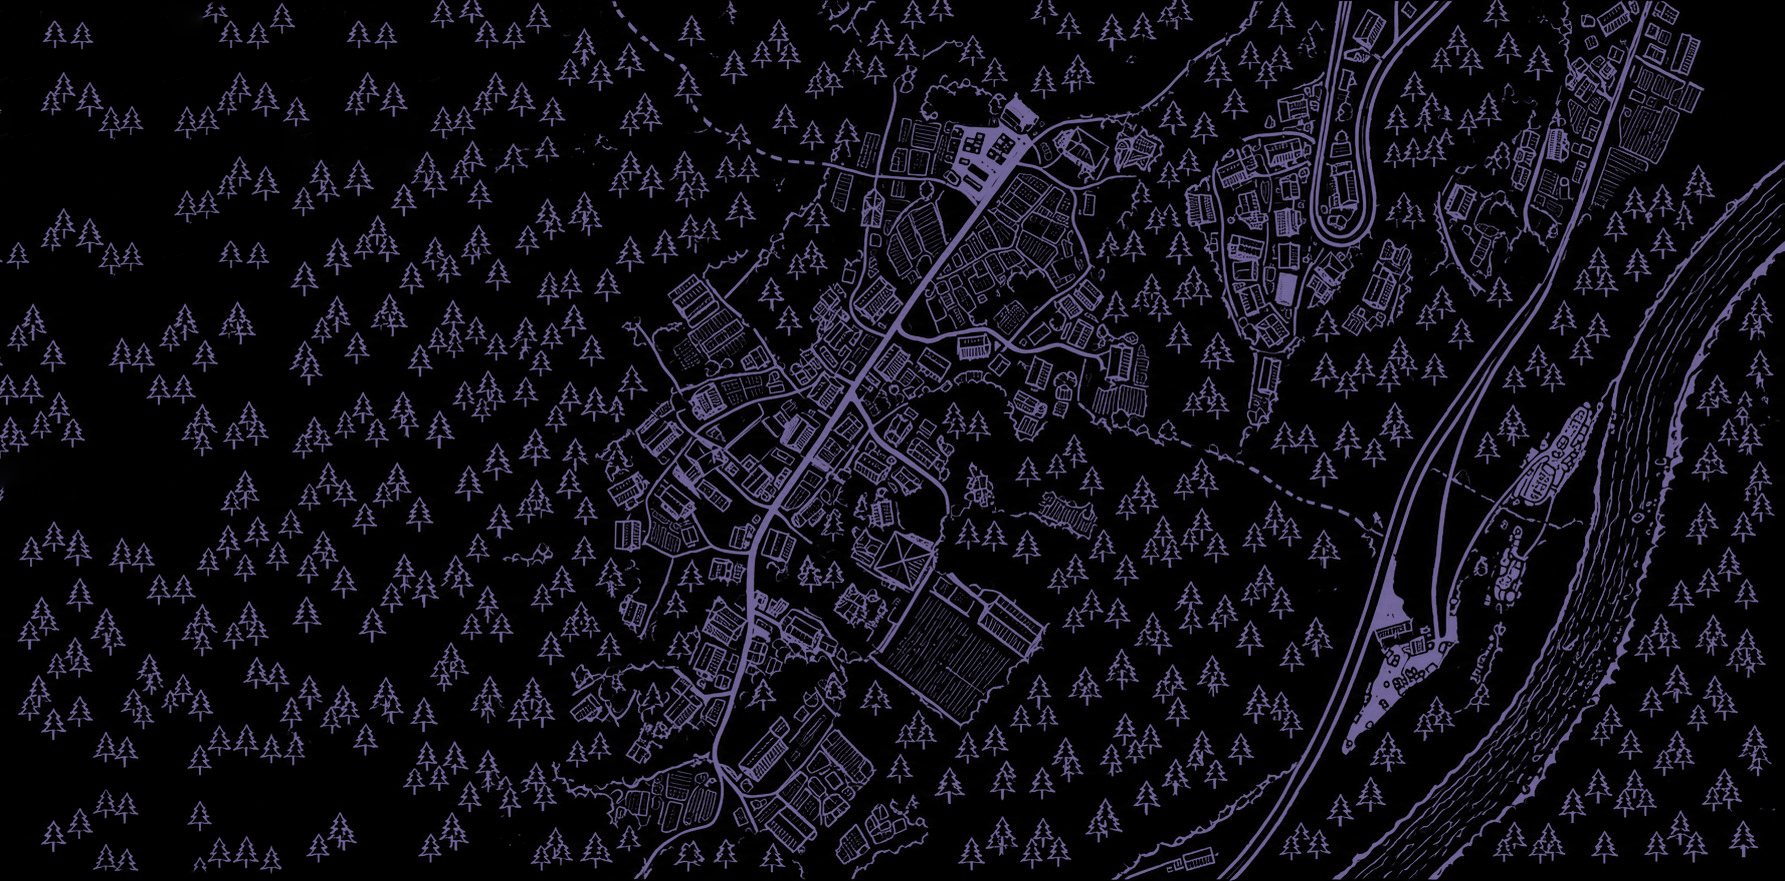
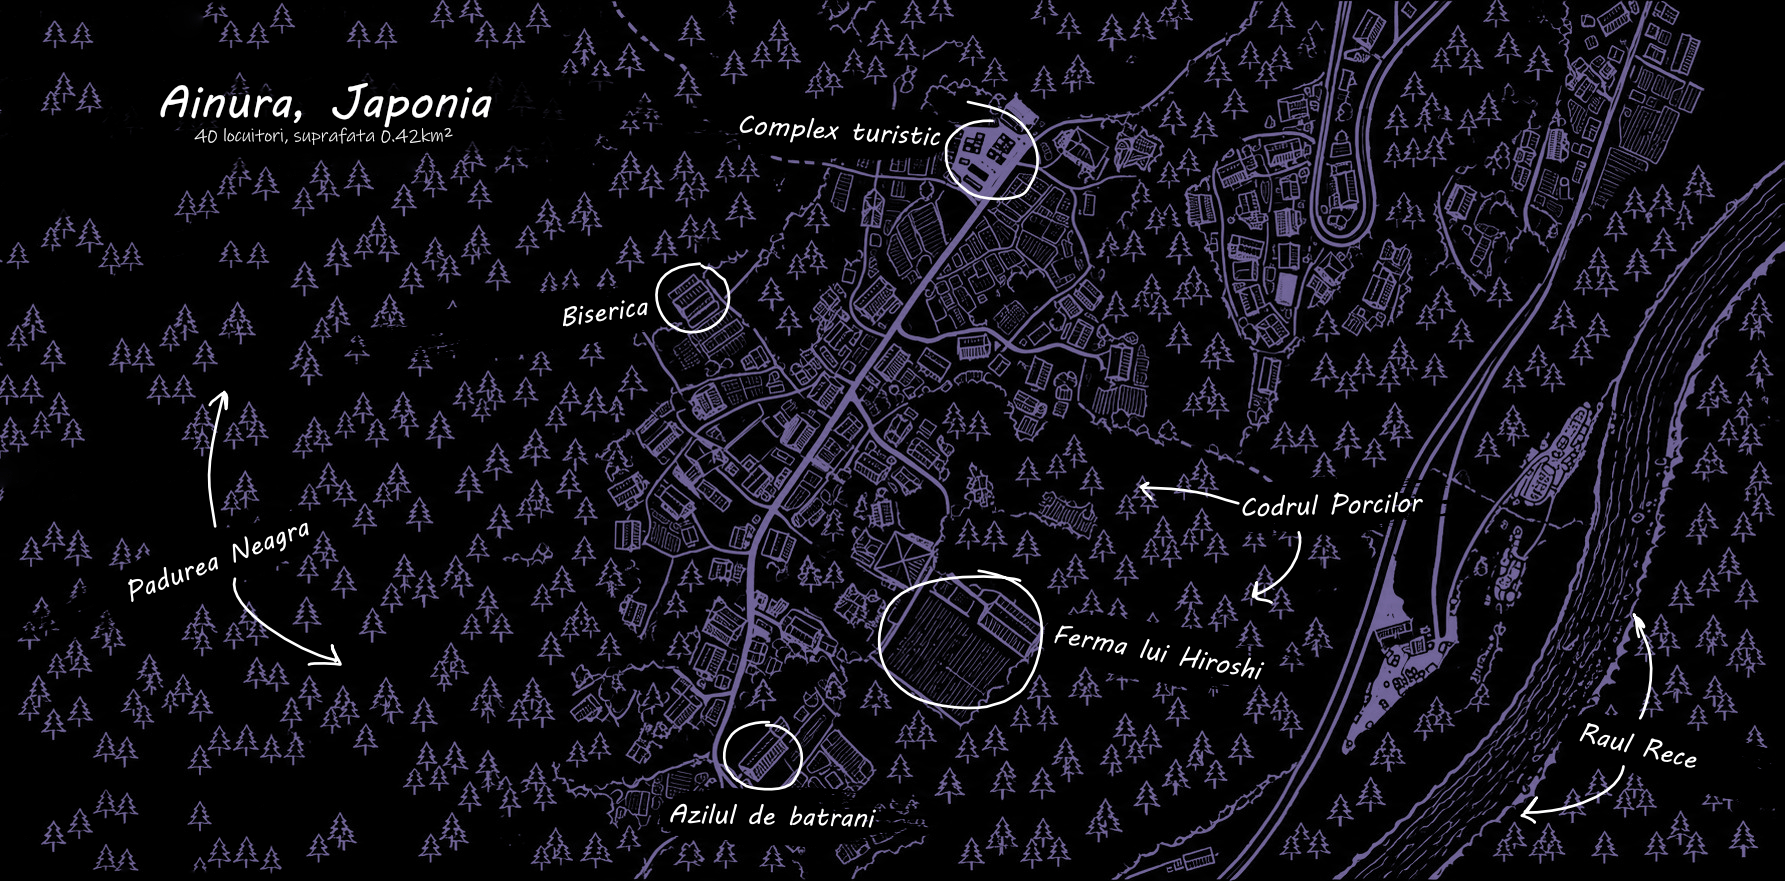
Added chapter 2

diff --git a/content/stories/vlad/o-poveste-banala/02-hiroshi.md b/content/stories/vlad/o-poveste-banala/02-hiroshi.md
@@ -1,0 +1,102 @@
+---
+title: Hiroshi
+---
+~~~map {map="map0"}
+980,487
+226,340
+~~~
+Nu m-am inscris pentru ca ma interesa joaca puerila a unor adulti de-a autorii de romane, ci fiindca persoana care coordona activitatea, era totodata si persoana cu care trebuia sa discut pentru a intocmi un plan de corectare a tuturor neregulilor identificate la sistemul lor de catalogarea a cartilor.
+
+Dupa prima sedinta insa, am descoperit ceva interesant. Nu, nu mi-am schimbat parerea legata de cum alegeau sa isi iroseasca timpul pretios unii care erau adulti doar in buletin, ci am devenit fascinat de cum am ajuns sa imi irosesc EU timpul. 
+
+Prima provocare a fost o scriere de aproximativ 5000 de caractere despre o poveste de dragoste imposibila, intre un soldat dintr-o tabara si o specialista in telecomunicatii din tabara inamica.
+
+Desigur, am dat ochii peste cap cand am auzit, si pe drum, in autobuz, mi s-a parut ridicol sa imi intrerup admirarea trecatorilor aleatorii de pe strada, cu subiecte puerile cum ar fi *soldatelul-iubeste-telefonista*. 
+
+Am ajuns acasa, i-am dat medicamentele lui mama si, ca de obicei, m-am asezat la calculator sa continui traducerea din engleza in poloneza a unui manual pentru un termometru USB (o activitate paralela cu jobul - un venit extra).
+
+Alimentat de o curiozitate incomoda, am scos din sertar un caiet si un pix si am inceput sa scriu. De nicaieri a aparut numele lui Otto, infanterist care abia a trecut majoratul, si numele lui Olga, o tehniciana sovietica, alocata decriptarii mesajelor transmise pe frontul pe care activa Otto. 
+
+Pixul se misca singur, si il urmaream cum desena, prin caractere si punctuatie, fronturi, transee, ofensive, defensive, mesaje adevarate si mesaje momeala menite sa induca in eroare.
+
+La un moment dat, rapus de oboseala, am atipit, cu capul pe caiet. Nu mai stiu la ce ora am adormit, insa ceasul meu desteptator m-a trezit, ca de obicei la cinci. 
+
+L-am oprit si am inceput rutina de dimineata, insa de data asta ceva era diferit. Caietul continea o poveste cap coada a celor doi protagonisti, o poveste pe care nu mi-o aduc aminte sa o fi scris. Am citit-o si...
+
+-- Cam slaba!
+
+Gandurile mele, oglindite, prin complimente false si de coordonatorul clubului.
+
+Nu ma asteptam sa fie altfel, deoarece faptele nu puteau sprijini o derulare diferita. De ce am mai prezentat povestea, fiind convins de ce reactie si feedback o sa primesc? 
+
+Pentru ca nu imi pasa de aceste lucruri, insa am ramas cu gandul la starea de transa in care am intrat in seara anterioara si de povestea care, cumva, s-a scris singura, in timp ce dormeam.
+
+Alaturi de colegii de club, eram si eu un cititor al propriilor creatii!
+
+Zilele au trecut, cu diverse povesti scrise mai bine (rar) sau *mai putin bine* (des), cu subiecte si/sau tehnici diferite, toate avand in comun faptul ca am fost spectator la primele cateva duzini de cuvinte, dupa care l-am lasat pe Mos Ene sa continuie restul povestii, urmand sa citesc rezultatul dimineata.
+
+Astfel ajungem la Hiroshi, protagonistul ultimei povesti din cadrul clubului.
+
+Se intampla prin Octombrie, la o luna dupa ce am incheiat colaborarea cu Biblioteca Municipala. Cerinta clubului a fost destul de ambigua: 
+
+*Necesitatea este mama invataturii!*
+{.callout .blue}
+
+Pe drum, in autobuz, am intors cerinta pe toate partile si mi-a venit ideea sa descriu situatia unui fermier, eventual mostenitor al fermei familiei, care trebuie sa supravietuiasca intr-un mediu care este incompatibil cu agricultura.
+
+Totodata, cu cateva seri in urma am urmarit cu mama un documentar despre viata corporatista in Tokyo. Mi s-a parut inedita cultura japoneza si m-am gandit ca as putea integra asta in povestea mea.
+
+Mai aveam cateva statii pana cand trebuia sa cobor. Nu am avut rabdare sa ajung acasa asa ca am scos un carnetel ca sa imi notez cateva idei de baza:
+
+*Fermier + mediu ostil agriculturii + Japonia*
+{.callout .blue}
+
+Aveam nevoie de niste nume care sa sune japonez asa ca m-am uitat in jurul meu. Stateam langa un adolescent lipit de telefon, pe care juca (pfeh!) un joc cu lupte cu sabia sau ceva. 
+
+Pe ecran scria "Choose your hero!" si baiatul era ocupat sa schimbe aspectul personajului, dupa ce a completat numele: "Shi".
+
+*Fermier: baiat tanar, adolescent, undeva in jur de 19 ani, 1.60 inaltime, nume: Heroshi... Hiroshi!.*
+{.callout .blue}
+
+Locatia a fost simplu de ales - fix atunci autobuzul trecea pe langa un restaurant asiatic numit Kalinura.
+
+*Locatie: sat mic, idilic, nume: Kainura... Ainura!.*
+{.callout .blue}
+
+Odata ajuns acasa, m-am asezat in fata biroului, pregatit sa incep sa scriu! Am intors o foaie proaspata a caietului, am pregatit pixul si... nu s-a intamplat nimic. 
+
+Am stat cateva minute uitandu-ma in gol la foaia alba, asteptand parca sa inceapa sa imi scrie singura mesaje, ca intr-un film pt copiii cu vrajitori. 
+
+M-am gandit ca poate e una din serile in care nu am "inspiratie" (s-a mai intamplat), asa ca am vrut sa bag pixul in sertar cand am avut o atractie sa pun pixul pe foaie. In sfarsit se intampla! Incepeam sa scriu, insa pixul nu lasa litere in urma, ci doar niste mazgaleli.
+
+In scurt timp am realizat ca mazgalelile erau de fapt drumuri, rauri, copaci, dealuri, case si recolte. Incepusem sa creez o harta! 
+
+Pana sa realizez ce se intampla, am simtit oboseala caracteristica procesului meu creativ, si incet, dar sigur, o patura groasa de catifea neagra mi-a invaluit ochii pe care nu am putut sa ii tin deschisi.
+
+---
+
+Dimineata am gasit urmatorul text:
+
+> La vest de Raul Rece, se desfasoara suprafata modesta a satului japonez Ainura, cu o istorie bogata de mii de ani, rivalizata doar de frumusetea fara seaman a caselor faimoase, vizitate zilnic de turisti. 
+
+> La baza Codrului Porcilor, vestit pentru populatia de mistreti, dificil de tinut sub control, gasim ferma lui Hiroshi, un baiat tanar cu corpul sculptat de munca chinuitoare a campului dar si de conditiile meteo vitrege ale satului. 
+
+> Baiatul a preluat ferma, asa cum au facut-o zeci de generatii inaintea lui, si in fiecare zi se ocupa atat de ferma cat si de diversele activitati din micul catun, de la ingrijit batranii pana la oferit ghiduri turistilor.
+
+> La finalul fiecarei zile, Hiroshi are obiceiul sa se opreasca la biserica satului, unde, alaturi de consatenii lui, participa la slujba si se roaga pentru bunastarea si sanatatea sa dar si a comunitatii lui.
+
+> Rugaciunile baiatului sunt putin diferite... Nu contin valuri de multumiri, complimente exagerate, repetate ad-nauseam, idolatrizari si cersiri pentru atentie... Par mai mult o tentativa de stabilire a unui canal de comunicare...
+
+-- Stiu ca ai creat acest sat, aceasta biserica, pe cei din sat si pe mine... Totul pare real si am amintiri de cand eram mic, cu parintii mei, si de cand s-au imbolnavit acum cativa ani... Insa stiu ca sunt false, si ca m-ai creat... azi.
+
+> Desigur, Hiroshi nu isi imparte teoriile cu ceilalti, mai ales ca nu ar fi un lucru foarte bine vazut in mica lui comunitate. Pe de o parte sunt batranii care stiu calea corecta, doar au trait in vremurile de aur, cand se faceau lucrurile cum trebuie!
+
+> Pe de alta parte, este preotul, liderul incontestat al satului, care stie si ghideaza lumea pe calea cea dreapta.
+
+> Si, desigur, nu in ultimul rand, sunt cei care incearca sa ii ia ferma, aceasta fiind cea mai mare din sat.
+
+-- Nu am cum sa dovedesc asta, dar ma simt ca intr-o piesa de teatru, cu decoruri de carton si actori care joaca un rol... 
+
+> Cateodata preotul observa cat de tare se roaga Hiroshi, si daca la inceput ii aprecia devotamentul si credinta, in ultima vreme a inceput sa fie suspicios...
+
+-- ... sau ca personajele unei povesti, aflate la mila autorului!
